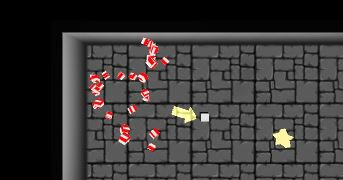
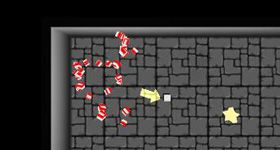
添加《鬼打墙》游戏

diff --git a/source/gallery/ghost.md b/source/gallery/ghost.md
@@ -1,0 +1,17 @@
+---
+title: 鬼打墙：3D第一人称恐怖解谜游戏
+date: 2016-12-04 21:41:26
+---
+
+# [下载地址：百度网盘](https://pan.baidu.com/s/1eRJHqfS)
+
+## 简介
+
+![](/img/games/ghost.jpg)
+3D第一人称恐怖解谜游戏《鬼打墙》Demo
+
+## 控制方法
+移动：按键A、W、S、D
+开门：左键
+跳跃：空格
+加速跑：Shift键

diff --git a/source/gallery/index.md b/source/gallery/index.md
@@ -7,4 +7,6 @@ date: 2016-11-19 21:41:26
 
 1. [绳子先生](/gallery/mr-rope.html)
 2. [跑个1千米](/gallery/running-boy.html)
+3. [鬼打墙](/gallery/ghost.html)
+
 

diff --git a/source/about/index.md b/source/about/index.md
@@ -9,4 +9,4 @@ date: 2016-11-12 00:21:39
 
 # 关于工作室
 
-TODO
+## [Indienova主页](http://indienova.com/u/yuyistudio)
